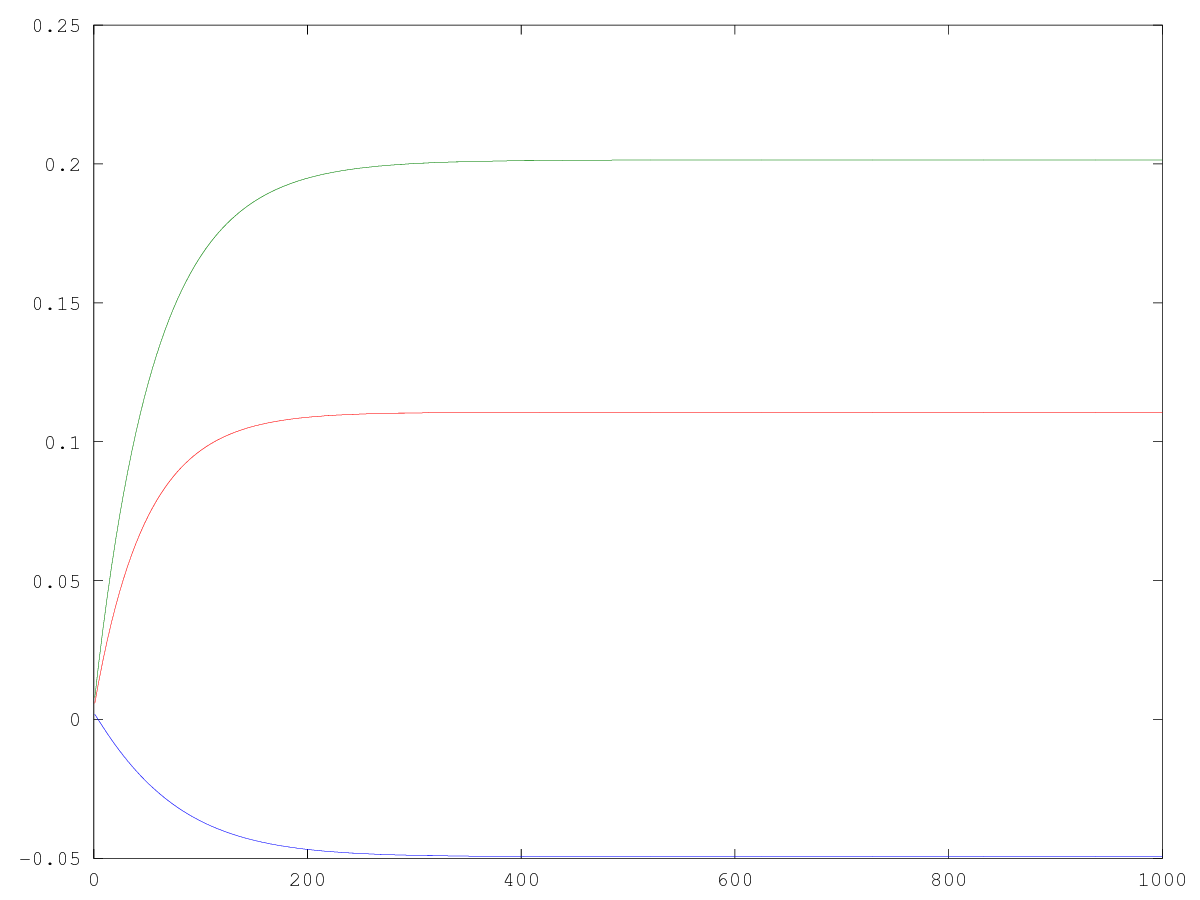
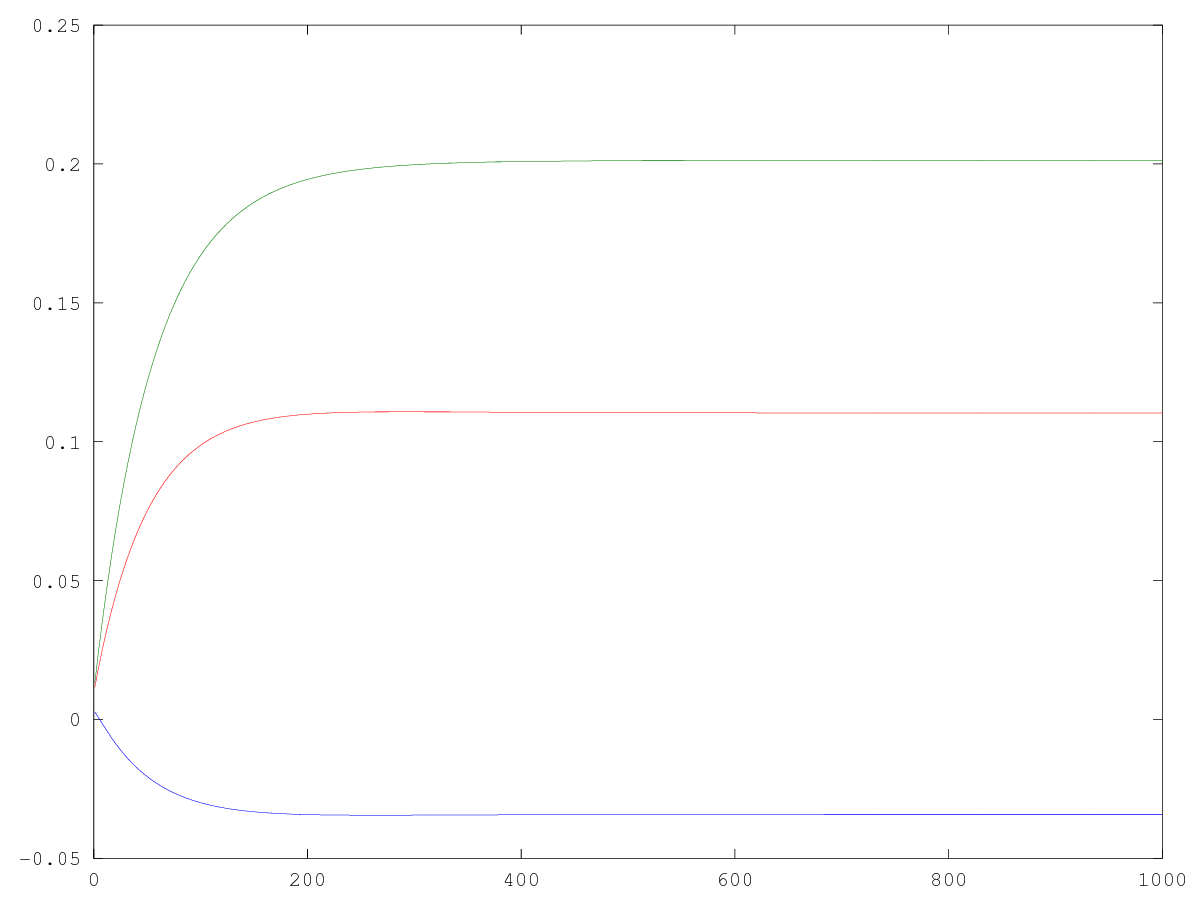
TREC-BIG experiment

diff --git a/octave-src/sample/LawStudents/gender/GAMMA=SMALL/model.m b/octave-src/sample/LawStudents/gender/GAMMA=SMALL/model.m
@@ -1,10 +1,10 @@
-# Created by Octave 4.0.0, Tue Jul 24 17:40:53 2018 UTC <ubuntu@lsat>
+# Created by Octave 4.0.0, Tue Jul 24 19:39:17 2018 UTC <ubuntu@lsat>
 # name: omega
 # type: matrix
 # rows: 3
 # columns: 1
- -0.04935689531086727
- 0.2014557356314081
- 0.1105013221370837
+ -0.03418430965201719
+ 0.2012857726871326
+ 0.110361338484729
 
 
